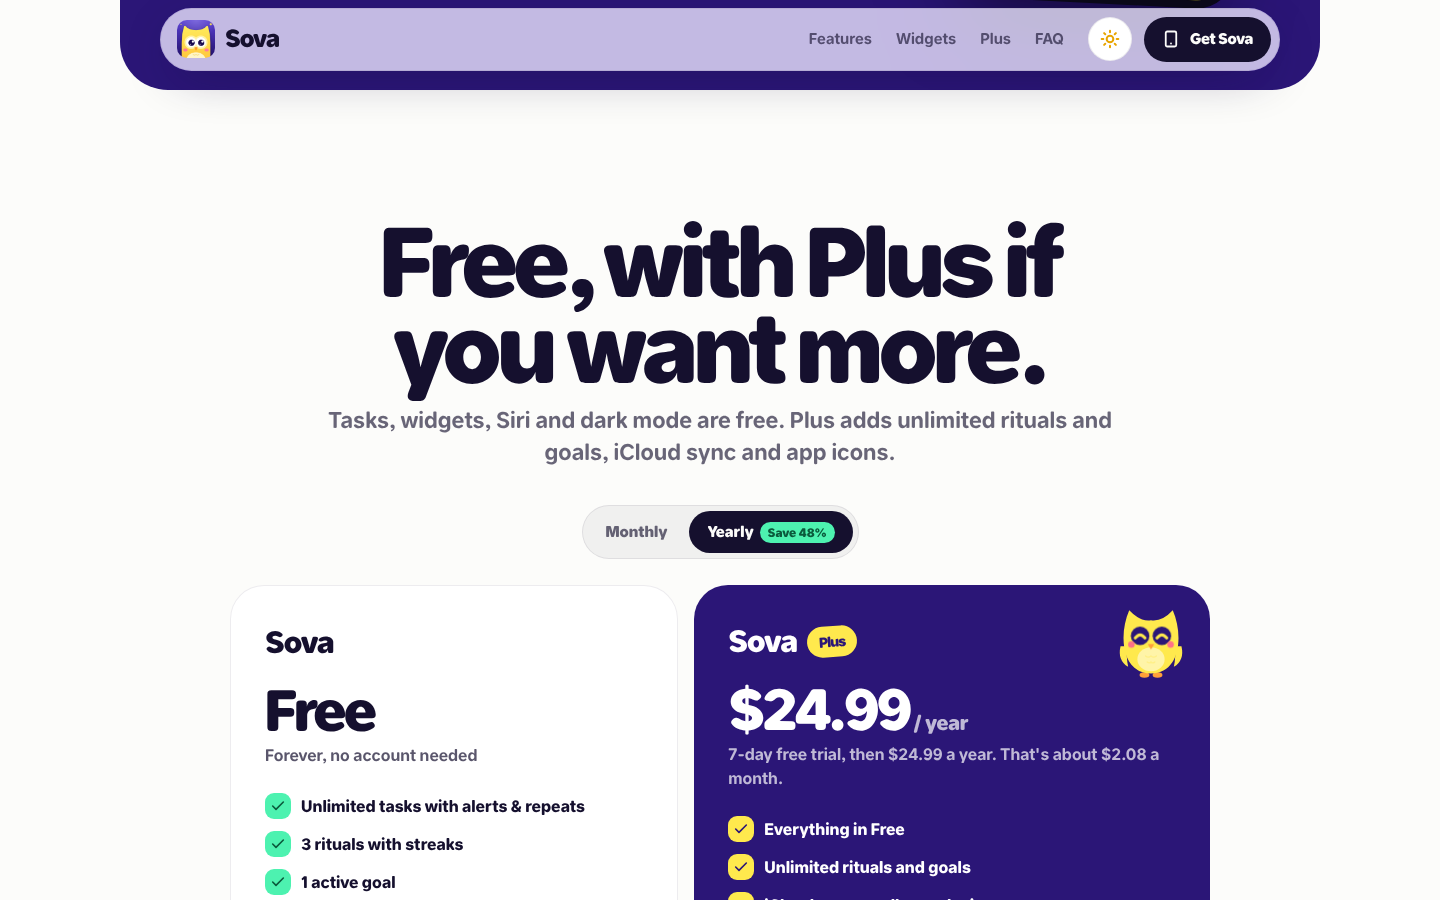
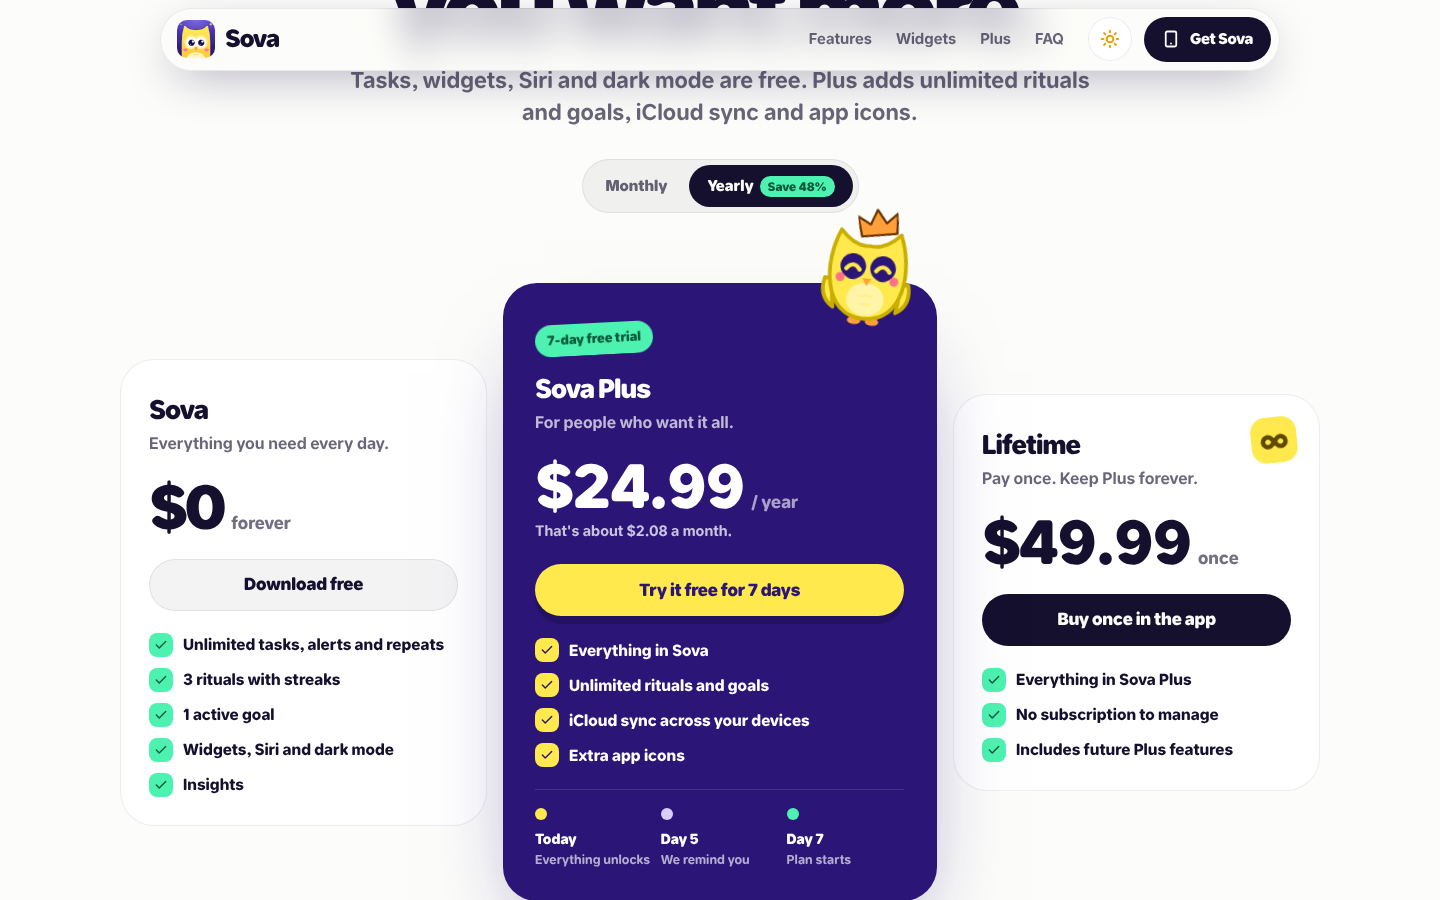
Website: premium pricing with three tiers, animated Plus price, free-week timeline, comparison table and trust row

diff --git a/docs/index.html b/docs/index.html
@@ -704,6 +704,69 @@ html.lenis,html.lenis body{height:auto}
   .ls-widgets{flex-direction:column;align-items:center}
 }
 
+/* ===================== v7: pricing ===================== */
+.price-sec{margin-top:clamp(80px,10vw,130px)}
+.price-sec .toggle-wrap{margin-top:30px}
+.tiers{display:grid;grid-template-columns:1fr 1.18fr 1fr;gap:16px;align-items:center;margin-top:44px}
+.tier{position:relative;border-radius:var(--r-lg);padding:30px 28px 28px;background:var(--surface);border:1.5px solid var(--hair);transform-style:preserve-3d;transition:transform .5s cubic-bezier(.2,.8,.2,1)}
+.tier::before{content:"";position:absolute;inset:0;border-radius:inherit;pointer-events:none;opacity:0;transition:opacity .3s;background:radial-gradient(420px circle at var(--gx,50%) var(--gy,50%),rgba(255,255,255,.18),transparent 45%)}
+@media (hover:hover){.tier:hover::before{opacity:1}}
+.tier h3{font-weight:900;font-size:26px;letter-spacing:-.035em}
+.t-sub{font-weight:700;color:var(--ink2);margin-top:2px}
+.t-price{display:flex;align-items:baseline;gap:8px;margin:22px 0 4px}
+.t-price b{font-weight:900;font-size:clamp(46px,4.6vw,60px);letter-spacing:-.055em;line-height:1;font-variant-numeric:tabular-nums}
+.t-price span{font-weight:800;font-size:17px;opacity:.6}
+.t-equiv{font-weight:700;font-size:14.5px;opacity:.75;min-height:1.4em}
+.t-btn{display:flex;justify-content:center;align-items:center;min-height:52px;border-radius:999px;font-weight:900;font-size:17px;letter-spacing:-.01em;margin:22px 0 22px;transition:transform .25s var(--ease),filter .2s}
+@media (hover:hover){.t-btn:hover{transform:translateY(-2px)}}
+.t-btn:active{transform:scale(.97)}
+.t-btn-ghost{background:var(--well);color:var(--ink);border:1.5px solid var(--hair)}
+.t-btn-dark{background:var(--ink);color:var(--canvas)}
+.t-btn-yellow{background:#FFE94D;color:#2B1677;box-shadow:0 8px 0 rgba(0,0,0,.18)}
+.tier ul{list-style:none;display:grid;gap:11px}
+.tier li{display:flex;gap:10px;align-items:center;font-weight:800;font-size:15.5px}
+.tier .ck{width:24px;height:24px;border-radius:8px;display:grid;place-items:center;flex:none;background:var(--mint);color:var(--mD)}
+.t-plus{background:#2B1677;color:#fff;border:0;padding:40px 32px 32px;box-shadow:0 50px 90px -40px rgba(43,22,119,.65);z-index:1}
+.t-plus .t-sub{color:rgba(255,255,255,.7)}
+.t-plus .ck{background:#FFE94D;color:#2B1677}
+.t-owl{position:absolute;right:22px;top:-46px;width:96px;rotate:6deg;animation:bob 4.5s ease-in-out infinite}
+.t-owl svg.owl{width:96px;height:auto}
+.t-flag{display:inline-block;background:#4DF2B0;color:#0B5A3C;font-weight:900;font-size:13px;padding:6px 12px;border-radius:999px;transform:rotate(-3deg);margin-bottom:14px;transition:opacity .25s,transform .35s var(--ease)}
+.t-flag.off{opacity:0;transform:rotate(-3deg) scale(.6)}
+.t-week{display:grid;grid-template-columns:repeat(3,1fr);gap:8px;margin-top:22px;padding-top:18px;border-top:1.5px solid rgba(255,255,255,.12);transition:opacity .3s}
+.t-week.off{opacity:.25}
+.t-week div{display:grid;gap:2px}
+.t-week i{width:12px;height:12px;border-radius:50%;margin-bottom:6px}
+.t-week b{font-weight:900;font-size:14px}
+.t-week span{font-weight:600;font-size:12.5px;color:rgba(255,255,255,.65)}
+.t-life .t-inf{position:absolute;right:22px;top:22px;width:46px;height:46px;border-radius:15px;background:#FFE94D;color:#5E4A00;display:grid;place-items:center;font-weight:900;font-size:28px;rotate:-6deg}
+.compare{max-width:820px;margin:28px auto 0;border-radius:var(--r-lg);border:1.5px solid var(--hair);overflow:hidden;background:var(--surface)}
+.compare table{width:100%;border-collapse:collapse}
+.compare th,.compare td{padding:15px 20px;text-align:left;font-size:15.5px}
+.compare thead th{font-weight:900;font-size:13px;letter-spacing:.12em;text-transform:uppercase;color:var(--ink2);background:var(--well)}
+.compare thead th:last-child{color:#3B26A6}
+.compare tbody th{font-weight:800}
+.compare td{font-weight:800;color:var(--ink2);width:22%}
+.compare td:last-child{color:var(--ink)}
+.compare tbody tr+tr{border-top:1.5px solid var(--hair)}
+.compare .ck{width:24px;height:24px;border-radius:8px;display:inline-grid;place-items:center;background:var(--mint);color:var(--mD)}
+.compare td:last-child .ck{background:#2B1677;color:#FFE94D}
+.compare .no{color:var(--ink3);font-weight:900}
+.trust{list-style:none;display:flex;flex-wrap:wrap;justify-content:center;gap:10px 26px;margin-top:26px;font-weight:800;font-size:15px;color:var(--ink2)}
+.trust li{display:flex;align-items:center;gap:8px}
+@media (prefers-color-scheme:dark){:root:not([data-theme=light]) .compare thead th:last-child{color:#B6A9FF}}
+:root[data-theme=dark] .compare thead th:last-child{color:#B6A9FF}
+@media (max-width:980px){
+  .tiers{grid-template-columns:1fr;max-width:520px;margin-inline:auto;gap:14px}
+  .t-plus{order:-1;margin-top:40px}
+}
+@media (max-width:600px){
+  .tier{padding:26px 20px 22px}.t-plus{padding:34px 22px 24px}
+  .compare th,.compare td{padding:13px 12px;font-size:14px}
+  .compare td{width:24%}
+  .trust{flex-direction:column;align-items:center;gap:10px}
+}
+
 @media (prefers-reduced-motion:reduce){
   *,*::before,*::after{animation:none!important;transition:none!important}
   .reveal{opacity:1;transform:none}
@@ -1010,53 +1073,100 @@ html.lenis,html.lenis body{height:auto}
   </section>
 
   <!-- PRICING -->
-  <section class="wrap" id="plus">
-    <div class="section-head reveal">
+  <section class="wrap price-sec" id="plus">
+    <div class="wall-head">
       <h2 class="h-lg">Free, with Plus if you want more.</h2>
       <p class="lead">Tasks, widgets, Siri and dark mode are free. Plus adds unlimited rituals and goals, iCloud sync and app icons.</p>
     </div>
-    <div class="toggle-wrap reveal"><div class="toggle" role="group" aria-label="Billing period">
+
+    <div class="toggle-wrap"><div class="toggle" role="group" aria-label="Billing period">
       <button type="button" data-plan="monthly">Monthly</button>
       <button type="button" data-plan="yearly" class="on">Yearly<span class="save">Save 48%</span></button>
     </div></div>
-    <div class="plans">
-      <div class="plan free reveal">
+
+    <div class="tiers">
+      <!-- Free -->
+      <article class="tier t-free reveal">
         <h3>Sova</h3>
-        <div class="price">Free</div>
-        <div class="note">Forever, no account needed</div>
+        <p class="t-sub">Everything you need every day.</p>
+        <div class="t-price"><b>$0</b><span>forever</span></div>
+        <a class="t-btn t-btn-ghost js-store" href="#get">Download free</a>
         <ul>
-          <li><span class="ck"><svg class="ic" width="16" height="16" viewBox="0 0 24 24" fill="none" stroke="currentColor" stroke-width="2.4" stroke-linecap="round" stroke-linejoin="round" aria-hidden="true"><path d="M20 6 9 17l-5-5" /></svg></span>Unlimited tasks with alerts & repeats</li>
-          <li><span class="ck"><svg class="ic" width="16" height="16" viewBox="0 0 24 24" fill="none" stroke="currentColor" stroke-width="2.4" stroke-linecap="round" stroke-linejoin="round" aria-hidden="true"><path d="M20 6 9 17l-5-5" /></svg></span>3 rituals with streaks</li>
-          <li><span class="ck"><svg class="ic" width="16" height="16" viewBox="0 0 24 24" fill="none" stroke="currentColor" stroke-width="2.4" stroke-linecap="round" stroke-linejoin="round" aria-hidden="true"><path d="M20 6 9 17l-5-5" /></svg></span>1 active goal</li>
-          <li><span class="ck"><svg class="ic" width="16" height="16" viewBox="0 0 24 24" fill="none" stroke="currentColor" stroke-width="2.4" stroke-linecap="round" stroke-linejoin="round" aria-hidden="true"><path d="M20 6 9 17l-5-5" /></svg></span>Widgets, Siri and dark mode</li>
-          <li><span class="ck"><svg class="ic" width="16" height="16" viewBox="0 0 24 24" fill="none" stroke="currentColor" stroke-width="2.4" stroke-linecap="round" stroke-linejoin="round" aria-hidden="true"><path d="M20 6 9 17l-5-5" /></svg></span>Insights</li>
+          <li><span class="ck"><svg class="ic" width="14" height="14" viewBox="0 0 24 24" fill="none" stroke="currentColor" stroke-width="2.4" stroke-linecap="round" stroke-linejoin="round" aria-hidden="true"><path d="M20 6 9 17l-5-5" /></svg></span>Unlimited tasks, alerts and repeats</li>
+          <li><span class="ck"><svg class="ic" width="14" height="14" viewBox="0 0 24 24" fill="none" stroke="currentColor" stroke-width="2.4" stroke-linecap="round" stroke-linejoin="round" aria-hidden="true"><path d="M20 6 9 17l-5-5" /></svg></span>3 rituals with streaks</li>
+          <li><span class="ck"><svg class="ic" width="14" height="14" viewBox="0 0 24 24" fill="none" stroke="currentColor" stroke-width="2.4" stroke-linecap="round" stroke-linejoin="round" aria-hidden="true"><path d="M20 6 9 17l-5-5" /></svg></span>1 active goal</li>
+          <li><span class="ck"><svg class="ic" width="14" height="14" viewBox="0 0 24 24" fill="none" stroke="currentColor" stroke-width="2.4" stroke-linecap="round" stroke-linejoin="round" aria-hidden="true"><path d="M20 6 9 17l-5-5" /></svg></span>Widgets, Siri and dark mode</li>
+          <li><span class="ck"><svg class="ic" width="14" height="14" viewBox="0 0 24 24" fill="none" stroke="currentColor" stroke-width="2.4" stroke-linecap="round" stroke-linejoin="round" aria-hidden="true"><path d="M20 6 9 17l-5-5" /></svg></span>Insights</li>
         </ul>
-        <a class="btn btn-dark js-store" href="#get" style="padding:16px 24px;font-size:17px">Download free</a>
-      </div>
-      <div class="plan plus reveal">
-        <div class="plan-owl"><svg class="owl" viewBox="-14 -6 128 136" width="70" height="74" aria-hidden="true">
+      </article>
+
+      <!-- Plus -->
+      <article class="tier t-plus reveal">
+        <div class="t-owl" aria-hidden="true"><div style="position:relative"><svg class="owl" viewBox="-14 -6 128 136" width="96" height="102" aria-hidden="true">
 <ellipse cx="38" cy="119" rx="9" ry="5" fill="#FFA03A"/><ellipse cx="62" cy="119" rx="9" ry="5" fill="#FFA03A"/>
-<path class="wing wl" d="M-6 66 Q-12 92 8 104 Q4 84 6 66Z" fill="#FFE94D" />
-<path class="wing wr" d="M106 66 Q112 92 92 104 Q96 84 94 66Z" fill="#FFE94D" />
-<path d="M10 0 Q30 21.6 50 18.36 Q70 21.6 90 0 C110 45.36 104 116 50 116 C-4 116 -10 45.36 10 0Z" fill="#FFE94D" />
+<path class="wing wl" d="M-6 66 Q-12 92 8 104 Q4 84 6 66Z" fill="#FFE94D" stroke="#C9AE00" stroke-width="5" stroke-linejoin="round"/>
+<path class="wing wr" d="M106 66 Q112 92 92 104 Q96 84 94 66Z" fill="#FFE94D" stroke="#C9AE00" stroke-width="5" stroke-linejoin="round"/>
+<path d="M10 0 Q30 21.6 50 18.36 Q70 21.6 90 0 C110 45.36 104 116 50 116 C-4 116 -10 45.36 10 0Z" fill="#FFE94D" stroke="#C9AE00" stroke-width="5" stroke-linejoin="round"/>
 <ellipse cx="50" cy="90" rx="25" ry="22" fill="#FFF4A8"/>
 <path d="M40 84 q5 4 10 0 q5 4 10 0 M43 95 q4 3.5 7 0 q3.5 3.5 7 0" stroke="#FFE94D" stroke-opacity=".35" stroke-width="2.4" fill="none" stroke-linecap="round"/>
 <g class="eyes"><circle cx="30" cy="47" r="17" fill="#2B1677"/><path d="M21 51 Q30 39 39 51" stroke="#FFE94D" stroke-width="5.5" fill="none" stroke-linecap="round"/><circle cx="70" cy="47" r="17" fill="#2B1677"/><path d="M61 51 Q70 39 79 51" stroke="#FFE94D" stroke-width="5.5" fill="none" stroke-linecap="round"/></g>
 <circle cx="14" cy="63" r="6" fill="#FF5C93" fill-opacity=".85"/><circle cx="86" cy="63" r="6" fill="#FF5C93" fill-opacity=".85"/>
-<path d="M44 62 L56 62 L50 72Z" fill="#FFA03A"/></svg></div>
-        <h3>Sova <span class="tag">Plus</span></h3>
-        <div class="price" id="price"><span class="amt" id="amt">$24.99</span><small id="per"> / year</small></div>
-        <div class="note" id="pnote">7-day free trial, then $24.99 a year. That's about $2.08 a month.</div>
+<path d="M44 62 L56 62 L50 72Z" fill="#FFA03A"/></svg><svg style="position:absolute;left:34px;top:-20px;rotate:-10deg" width="40" height="28" viewBox="0 0 44 30"><path d="M2.6 29 L0 6.6 L13.2 16.5 L22 1 L30.8 16.5 L44 6.6 L41.4 29Z" fill="#FFA03A" stroke="#6B3400" stroke-width="2.5" stroke-linejoin="round"/></svg></div></div>
+        <span class="t-flag" id="tFlag">7-day free trial</span>
+        <h3>Sova Plus</h3>
+        <p class="t-sub">For people who want it all.</p>
+        <div class="t-price"><b id="tAmt">$24.99</b><span id="tPer">/ year</span></div>
+        <p class="t-equiv" id="tEquiv">That's about $2.08 a month.</p>
+        <a class="t-btn t-btn-yellow js-store" href="#get" id="tCta">Try it free for 7 days</a>
         <ul>
-          <li><span class="ck"><svg class="ic" width="16" height="16" viewBox="0 0 24 24" fill="none" stroke="currentColor" stroke-width="2.4" stroke-linecap="round" stroke-linejoin="round" aria-hidden="true"><path d="M20 6 9 17l-5-5" /></svg></span>Everything in Free</li>
-          <li><span class="ck"><svg class="ic" width="16" height="16" viewBox="0 0 24 24" fill="none" stroke="currentColor" stroke-width="2.4" stroke-linecap="round" stroke-linejoin="round" aria-hidden="true"><path d="M20 6 9 17l-5-5" /></svg></span>Unlimited rituals and goals</li>
-          <li><span class="ck"><svg class="ic" width="16" height="16" viewBox="0 0 24 24" fill="none" stroke="currentColor" stroke-width="2.4" stroke-linecap="round" stroke-linejoin="round" aria-hidden="true"><path d="M20 6 9 17l-5-5" /></svg></span>iCloud sync on all your devices</li>
-          <li><span class="ck"><svg class="ic" width="16" height="16" viewBox="0 0 24 24" fill="none" stroke="currentColor" stroke-width="2.4" stroke-linecap="round" stroke-linejoin="round" aria-hidden="true"><path d="M20 6 9 17l-5-5" /></svg></span>Extra app icons</li>
-          <li><span class="ck"><svg class="ic" width="16" height="16" viewBox="0 0 24 24" fill="none" stroke="currentColor" stroke-width="2.4" stroke-linecap="round" stroke-linejoin="round" aria-hidden="true"><path d="M20 6 9 17l-5-5" /></svg></span>Supports independent development</li>
+          <li><span class="ck"><svg class="ic" width="14" height="14" viewBox="0 0 24 24" fill="none" stroke="currentColor" stroke-width="2.4" stroke-linecap="round" stroke-linejoin="round" aria-hidden="true"><path d="M20 6 9 17l-5-5" /></svg></span>Everything in Sova</li>
+          <li><span class="ck"><svg class="ic" width="14" height="14" viewBox="0 0 24 24" fill="none" stroke="currentColor" stroke-width="2.4" stroke-linecap="round" stroke-linejoin="round" aria-hidden="true"><path d="M20 6 9 17l-5-5" /></svg></span>Unlimited rituals and goals</li>
+          <li><span class="ck"><svg class="ic" width="14" height="14" viewBox="0 0 24 24" fill="none" stroke="currentColor" stroke-width="2.4" stroke-linecap="round" stroke-linejoin="round" aria-hidden="true"><path d="M20 6 9 17l-5-5" /></svg></span>iCloud sync across your devices</li>
+          <li><span class="ck"><svg class="ic" width="14" height="14" viewBox="0 0 24 24" fill="none" stroke="currentColor" stroke-width="2.4" stroke-linecap="round" stroke-linejoin="round" aria-hidden="true"><path d="M20 6 9 17l-5-5" /></svg></span>Extra app icons</li>
         </ul>
-        <div class="options"><span>Monthly</span><span>Yearly · 7-day trial</span><span>Lifetime $49.99</span></div>
-      </div>
+        <div class="t-week" id="tWeek">
+          <div><i style="background:#FFE94D"></i><b>Today</b><span>Everything unlocks</span></div>
+          <div><i style="background:#D9CEFF"></i><b>Day 5</b><span>We remind you</span></div>
+          <div><i style="background:#4DF2B0"></i><b>Day 7</b><span>Plan starts</span></div>
+        </div>
+      </article>
+
+      <!-- Lifetime -->
+      <article class="tier t-life reveal">
+        <span class="t-inf" aria-hidden="true">∞</span>
+        <h3>Lifetime</h3>
+        <p class="t-sub">Pay once. Keep Plus forever.</p>
+        <div class="t-price"><b>$49.99</b><span>once</span></div>
+        <a class="t-btn t-btn-dark js-store" href="#get">Buy once in the app</a>
+        <ul>
+          <li><span class="ck"><svg class="ic" width="14" height="14" viewBox="0 0 24 24" fill="none" stroke="currentColor" stroke-width="2.4" stroke-linecap="round" stroke-linejoin="round" aria-hidden="true"><path d="M20 6 9 17l-5-5" /></svg></span>Everything in Sova Plus</li>
+          <li><span class="ck"><svg class="ic" width="14" height="14" viewBox="0 0 24 24" fill="none" stroke="currentColor" stroke-width="2.4" stroke-linecap="round" stroke-linejoin="round" aria-hidden="true"><path d="M20 6 9 17l-5-5" /></svg></span>No subscription to manage</li>
+          <li><span class="ck"><svg class="ic" width="14" height="14" viewBox="0 0 24 24" fill="none" stroke="currentColor" stroke-width="2.4" stroke-linecap="round" stroke-linejoin="round" aria-hidden="true"><path d="M20 6 9 17l-5-5" /></svg></span>Includes future Plus features</li>
+        </ul>
+      </article>
     </div>
+
+    <div class="compare reveal">
+      <table>
+        <thead><tr><th scope="col">Compare</th><th scope="col">Sova</th><th scope="col">Plus</th></tr></thead>
+        <tbody>
+          <tr><th scope="row">Tasks, alerts and repeats</th><td>Unlimited</td><td>Unlimited</td></tr>
+          <tr><th scope="row">Rituals</th><td>3</td><td>Unlimited</td></tr>
+          <tr><th scope="row">Active goals</th><td>1</td><td>Unlimited</td></tr>
+          <tr><th scope="row">Widgets and Lock Screen</th><td><span class="ck"><svg class="ic" width="14" height="14" viewBox="0 0 24 24" fill="none" stroke="currentColor" stroke-width="2.4" stroke-linecap="round" stroke-linejoin="round" aria-hidden="true"><path d="M20 6 9 17l-5-5" /></svg></span></td><td><span class="ck"><svg class="ic" width="14" height="14" viewBox="0 0 24 24" fill="none" stroke="currentColor" stroke-width="2.4" stroke-linecap="round" stroke-linejoin="round" aria-hidden="true"><path d="M20 6 9 17l-5-5" /></svg></span></td></tr>
+          <tr><th scope="row">Siri and Shortcuts</th><td><span class="ck"><svg class="ic" width="14" height="14" viewBox="0 0 24 24" fill="none" stroke="currentColor" stroke-width="2.4" stroke-linecap="round" stroke-linejoin="round" aria-hidden="true"><path d="M20 6 9 17l-5-5" /></svg></span></td><td><span class="ck"><svg class="ic" width="14" height="14" viewBox="0 0 24 24" fill="none" stroke="currentColor" stroke-width="2.4" stroke-linecap="round" stroke-linejoin="round" aria-hidden="true"><path d="M20 6 9 17l-5-5" /></svg></span></td></tr>
+          <tr><th scope="row">Insights and dark mode</th><td><span class="ck"><svg class="ic" width="14" height="14" viewBox="0 0 24 24" fill="none" stroke="currentColor" stroke-width="2.4" stroke-linecap="round" stroke-linejoin="round" aria-hidden="true"><path d="M20 6 9 17l-5-5" /></svg></span></td><td><span class="ck"><svg class="ic" width="14" height="14" viewBox="0 0 24 24" fill="none" stroke="currentColor" stroke-width="2.4" stroke-linecap="round" stroke-linejoin="round" aria-hidden="true"><path d="M20 6 9 17l-5-5" /></svg></span></td></tr>
+          <tr><th scope="row">iCloud sync</th><td><span class="no">–</span></td><td><span class="ck"><svg class="ic" width="14" height="14" viewBox="0 0 24 24" fill="none" stroke="currentColor" stroke-width="2.4" stroke-linecap="round" stroke-linejoin="round" aria-hidden="true"><path d="M20 6 9 17l-5-5" /></svg></span></td></tr>
+          <tr><th scope="row">Extra app icons</th><td><span class="no">–</span></td><td><span class="ck"><svg class="ic" width="14" height="14" viewBox="0 0 24 24" fill="none" stroke="currentColor" stroke-width="2.4" stroke-linecap="round" stroke-linejoin="round" aria-hidden="true"><path d="M20 6 9 17l-5-5" /></svg></span></td></tr>
+        </tbody>
+      </table>
+    </div>
+
+    <ul class="trust">
+      <li><svg class="ic" width="18" height="18" viewBox="0 0 24 24" fill="none" stroke="currentColor" stroke-width="2.4" stroke-linecap="round" stroke-linejoin="round" aria-hidden="true"><path d="m17 2 4 4-4 4" /><path d="M3 11v-1a4 4 0 0 1 4-4h14" /><path d="m7 22-4-4 4-4" /><path d="M21 13v1a4 4 0 0 1-4 4H3" /></svg>Cancel anytime in iPhone Settings</li>
+      <li><svg class="ic" width="18" height="18" viewBox="0 0 24 24" fill="none" stroke="currentColor" stroke-width="2.4" stroke-linecap="round" stroke-linejoin="round" aria-hidden="true"><path d="M20 13c0 5-3.5 7.5-7.66 8.95a1 1 0 0 1-.67-.01C7.5 20.5 4 18 4 13V6a1 1 0 0 1 1-1c2 0 4.5-1.2 6.24-2.72a1.17 1.17 0 0 1 1.52 0C14.51 3.81 17 5 19 5a1 1 0 0 1 1 1z" /><path d="m9 12 2 2 4-4" /></svg>Billed securely by Apple</li>
+      <li><svg class="ic" width="18" height="18" viewBox="0 0 24 24" fill="none" stroke="currentColor" stroke-width="2.4" stroke-linecap="round" stroke-linejoin="round" aria-hidden="true"><rect width="14" height="20" x="5" y="2" rx="2" ry="2" /><path d="M12 18h.01" /></svg>Restore on any iPhone with your Apple Account</li>
+    </ul>
     <p class="fine">Prices in USD. Local prices may vary. Subscriptions renew automatically until cancelled.</p>
   </section>
 
@@ -1206,16 +1316,29 @@ const so = new IntersectionObserver(es => es.forEach(e => {
 steps.forEach(s => so.observe(s));
 steps[0].classList.add("active");
 
-// Pricing toggle
-const priceEl = document.getElementById("price"), amt = document.getElementById("amt"), per = document.getElementById("per"), pnote = document.getElementById("pnote");
+// Pricing toggle: the Plus price counts to the new value
+const amtEl = document.getElementById("tAmt"), perEl = document.getElementById("tPer"), eqEl = document.getElementById("tEquiv"),
+      flagEl = document.getElementById("tFlag"), ctaEl = document.getElementById("tCta"), weekEl = document.getElementById("tWeek");
 const PLANS = {
-  monthly: ["$3.99", " / month", "Billed monthly. Cancel anytime."],
-  yearly: ["$24.99", " / year", "7-day free trial, then $24.99 a year. That's about $2.08 a month."]
+  monthly: { v: 3.99, per: "/ month", eq: "Billed monthly. Cancel anytime.", cta: "Get Sova Plus", trial: false },
+  yearly: { v: 24.99, per: "/ year", eq: "That's about $2.08 a month.", cta: "Try it free for 7 days", trial: true }
 };
-document.querySelectorAll(".toggle button").forEach(b => b.addEventListener("click", () => {
-  document.querySelectorAll(".toggle button").forEach(x => x.classList.toggle("on", x === b));
-  priceEl.classList.add("swap");
-  setTimeout(() => { const [a, p, n] = PLANS[b.dataset.plan]; amt.textContent = a; per.textContent = p; pnote.textContent = n; priceEl.classList.remove("swap"); }, 180);
+let shown = 24.99;
+const countTo = to => {
+  if (reduce) { amtEl.textContent = "$" + to.toFixed(2); shown = to; return; }
+  const from = shown, t0 = performance.now(), D = 520;
+  const step = now => {
+    const k = Math.min(1, (now - t0) / D), e = 1 - Math.pow(1 - k, 3);
+    amtEl.textContent = "$" + (from + (to - from) * e).toFixed(2);
+    if (k < 1) requestAnimationFrame(step); else shown = to;
+  };
+  requestAnimationFrame(step);
+};
+document.querySelectorAll(".toggle button").forEach(btn => btn.addEventListener("click", () => {
+  document.querySelectorAll(".toggle button").forEach(x => x.classList.toggle("on", x === btn));
+  const P = PLANS[btn.dataset.plan];
+  countTo(P.v); perEl.textContent = P.per; eqEl.textContent = P.eq; ctaEl.textContent = P.cta;
+  flagEl.classList.toggle("off", !P.trial); weekEl.classList.toggle("off", !P.trial);
 }));
 
 // Phones: sticky download bar after the hero, hidden at the final call to action
@@ -1364,7 +1487,7 @@ markDot();
       b.addEventListener("pointerleave", () => { xTo(0); yTo(0); });
     });
     // Pricing cards tilt toward the cursor with a soft light.
-    document.querySelectorAll(".plan").forEach(card => {
+    document.querySelectorAll(".tier").forEach(card => {
       card.addEventListener("pointermove", e => {
         const r = card.getBoundingClientRect(), px = (e.clientX - r.left) / r.width, py = (e.clientY - r.top) / r.height;
         card.style.transform = `perspective(1000px) rotateX(${(0.5 - py) * 7}deg) rotateY(${(px - 0.5) * 9}deg)`;
